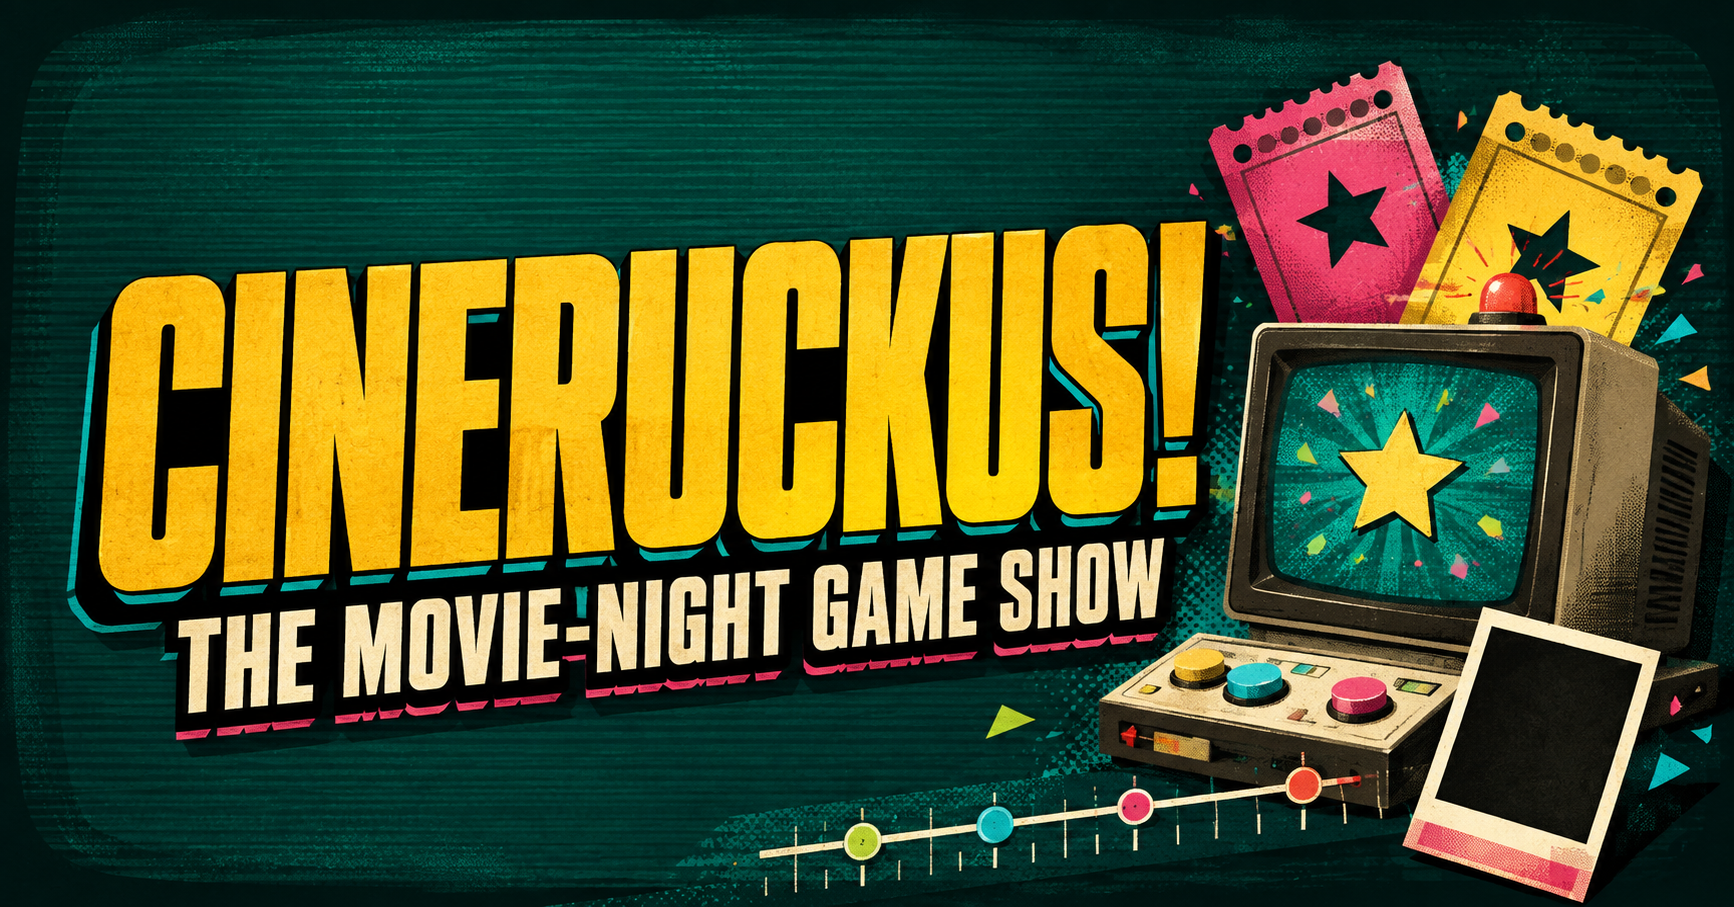
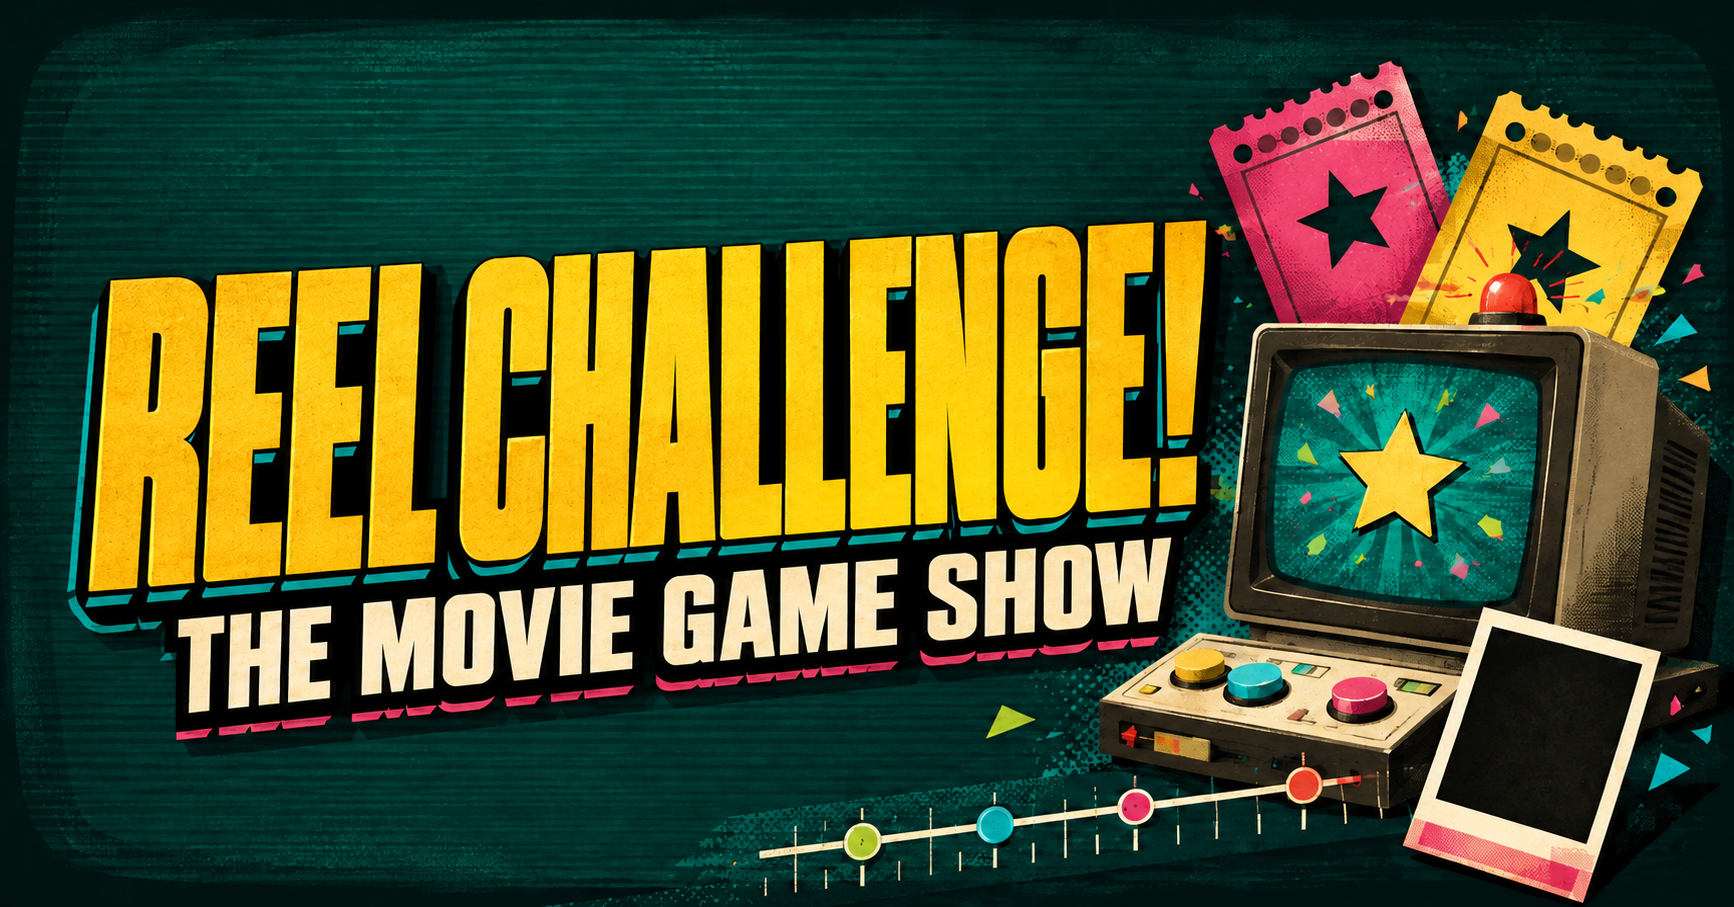
Rename game to Reel Challenge

diff --git a/app/components/GameMenu.tsx b/app/components/GameMenu.tsx
@@ -2,8 +2,8 @@
 
 import { useEffect, useRef, type CSSProperties } from "react";
 
-export const GAME_TITLE = "CineRuckus";
-export const GAME_TAGLINE = "The movie-night game show";
+export const GAME_TITLE = "Reel Challenge!";
+export const GAME_TAGLINE = "The movie game show";
 
 export type GameMenuView = "home" | "select";
 export type GameSelection = "director" | "timeline" | "cast-call" | "cinema-map";
@@ -120,7 +120,7 @@ export function GameMenu({
       <div className="menu-confetti" aria-hidden="true"><i /><i /><i /><i /><i /></div>
       <div className="game-title-lockup">
         <span>Zero Guilt presents</span>
-        <h2 id="game-title"><i>CINE</i><strong>RUCKUS!</strong></h2>
+        <h2 id="game-title"><i>REEL</i><strong>CHALLENGE!</strong></h2>
         <p>{GAME_TAGLINE}</p>
       </div>
       <div className="game-menu-actions">
@@ -149,7 +149,7 @@ export function GameMenuConsole({ view }: { view: GameMenuView }) {
 
   return (
     <>
-      <section className="hud-panel menu-console-panel is-live"><span className="hud-label">Now showing</span><strong>CineRuckus!</strong><small>One movie universe. A growing lineup of different games.</small></section>
+      <section className="hud-panel menu-console-panel is-live"><span className="hud-label">Now showing</span><strong>Reel Challenge!</strong><small>One movie universe. A growing lineup of different games.</small></section>
       <section className="hud-panel menu-console-panel"><span className="hud-label">New run</span><strong>Full lineup</strong><small>Your score carries from one movie challenge into the next.</small></section>
       <section className="hud-panel menu-console-panel"><span className="hud-label">Select game</span><strong>Quick play</strong><small>Jump directly to Director, Timeline, Cast Call, or Cinema Map.</small></section>
     </>

diff --git a/app/layout.tsx b/app/layout.tsx
@@ -2,18 +2,18 @@ import type { Metadata } from "next";
 import "./globals.css";
 
 export const metadata: Metadata = {
-  title: "CineRuckus — The Movie-Night Game Show",
+  title: "Reel Challenge! — The Movie Game Show",
   description:
-    "CineRuckus is a browser-only movie-night game show with a full multi-game run and quick play for Find the Director, Release Timeline, Cast Call, and Cinema Map.",
+    "Reel Challenge! is a browser-only movie game show with a full multi-game run and quick play for Find the Director, Release Timeline, Cast Call, and Cinema Map.",
   openGraph: {
-    title: "CineRuckus — The Movie-Night Game Show",
+    title: "Reel Challenge! — The Movie Game Show",
     description: "Four movie games. One delightfully temperamental CRT. Movie night, game on.",
     type: "website",
-    images: [{ url: "/og.png", alt: "CineRuckus — The Movie-Night Game Show" }],
+    images: [{ url: "/og.png", alt: "Reel Challenge! — The Movie Game Show" }],
   },
   twitter: {
     card: "summary_large_image",
-    title: "CineRuckus — The Movie-Night Game Show",
+    title: "Reel Challenge! — The Movie Game Show",
     description: "Four movie games. One delightfully temperamental CRT. Movie night, game on.",
     images: ["/og.png"],
   },

diff --git a/app/globals.css b/app/globals.css
@@ -1018,7 +1018,7 @@ button:focus-visible, [tabindex]:focus-visible { outline: 3px solid var(--pixel-
   .actor-polaroid.is-presenting, .actor-polaroid.is-correct, .actor-polaroid.is-wrong, .movie-cast-station.is-correct, .movie-cast-station.is-wrong, .movie-cast-station.is-completing, .movie-cast-station.is-entering, .cast-member-tag, .cast-complete-stamp { opacity: 1; animation: none !important; transform: none; }
 }
 
-/* CineRuckus — main menu and quick-play library */
+/* Reel Challenge — main menu and quick-play library */
 .game-menu {
   width: 100%;
   min-height: 100%;

diff --git a/app/components/DirectorGame.tsx b/app/components/DirectorGame.tsx
@@ -1044,7 +1044,7 @@ export function DirectorGame({ initialSeed }: { initialSeed: string }) {
         console={consoleContent}
         controls={controls}
         screenSticker={menuView ? (
-          <div className="menu-screen-sticker" aria-label="CineRuckus: four movie games are online">
+          <div className="menu-screen-sticker" aria-label="Reel Challenge: four movie games are online">
             <strong>MOVIE NIGHT</strong><span>4 GAMES ONLINE</span><i aria-hidden="true">★</i><span>MORE IN PRODUCTION</span>
           </div>
         ) : isCastCallStage ? (

diff --git a/README.md b/README.md
@@ -1,12 +1,12 @@
-# CineRuckus
+# Reel Challenge!
 
-**The Movie-Night Game Show**
+**The Movie Game Show**
 
-CineRuckus is a playful, browser-only collection of cinema games presented inside a responsive, vector-built 90s CRT television. A full run carries one growing movie archive and score through the lineup, while quick play makes every finished mode directly testable—no backend required.
+Reel Challenge! is a playful, browser-only collection of cinema games presented inside a responsive, vector-built 90s CRT television. A full run carries one growing movie archive and score through the lineup, while quick play makes every finished mode directly testable—no backend required.
 
 ## Main menu
 
-- **New Run** starts the full CineRuckus lineup from the beginning, preserving score and progress as each game hands off to the next.
+- **New Run** starts the full Reel Challenge! lineup from the beginning, preserving score and progress as each game hands off to the next.
 - **Select Game** opens a quick-play submenu so a mode can be launched immediately with a fresh score, without clearing the earlier games first.
 
 The current quick-play lineup has four games:
@@ -90,7 +90,7 @@ npm run lint
 ## Project shape
 
 - `app/components/DirectorGame.tsx` — interactive board, CRT HUD, dragging, hints, feedback, and progression
-- `app/components/GameMenu.tsx` — CineRuckus title screen, New Run entry point, and four-mode quick-play submenu
+- `app/components/GameMenu.tsx` — Reel Challenge! title screen, New Run entry point, and four-mode quick-play submenu
 - `app/components/GameLoopTutorial.tsx` — controlled real-object drag lesson, wrong-answer punch, completion, free hint samples, and compact reference
 - `app/components/CompletionArchiveSequence.tsx` — three-ticket snap, punch, stack compression, and Victory Area handoff
 - `app/components/StageResultsOverlay.tsx` — animated stage score transfer, performance stats, and next-stage handoff
